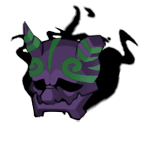
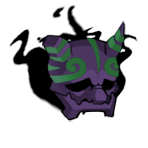
wine and ghoul block

diff --git a/js/animations/skills/GhoulBlock.js b/js/animations/skills/GhoulBlock.js
@@ -1,0 +1,90 @@
+import { Layer } from "../animations.js";
+
+const img = new Image();
+img.src = "img/display/effects/mask.png";
+
+export default class GhoulBlock {
+  constructor(left) {
+    this.layer = Layer.EFFECTS
+    this.left = left;
+    this.x = 300;
+    this.y = 470;
+    this.frame = 0;
+    this.opacity = 0;
+    this.scale = 0.6;
+  }
+
+  update() {
+    ++this.frame;
+    if (this.frame < 19) {
+    } else if (this.frame < 56) {
+      if (this.opacity < 1) {
+        this.opacity += 0.04;
+        if (this.opacity > 1) this.opacity = 1;
+      }
+      this.x += 1;
+      this.y -= 1;
+      if (this.frame > 45) {
+        this.scale += 0.02;
+        this.x -= 1;
+        this.y -= 1;
+      }
+    } else if (this.frame === 58 || this.frame === 59) {
+      this.scale += 0.03;
+      this.x -= 8;
+      this.y += 4;
+    } else if (this.frame === 60) {
+      this.x += 8;
+      this.y += 8;
+    } else if (this.frame < 63) {
+      this.scale -= 0.06;
+      this.opacity -= 0.3;
+      this.x += 50;
+      this.y += 5;
+    } else if (this.frame < 95) {
+    } else if (this.frame === 95) {
+      this.scale = 0.3;
+      this.x = 250;
+      this.y = 440;
+    } else if (this.frame < 110) {
+      this.scale += 0.03;
+      this.y -= 12;
+    }
+  }
+
+  /**
+   * notes @ 30 fps
+   * frames 1-18 wind up
+   * frames 19-56 mask fade in
+   * frames 57-62 scary
+   * frames 63-94 tricks and flips
+   * frames 95-116 mask from behind
+   */
+  draw(ctx) {
+    if (this.left) {
+      if (this.frame > 18 && this.frame < 63) {
+        ctx.globalAlpha = this.opacity;
+        ctx.drawImage(img, 0, 0, img.width, img.height, this.x, this.y, img.width * this.scale, img.height * this.scale);
+        ctx.globalAlpha = 1.0;
+      } else if (this.frame > 94) {
+        ctx.scale(-1, 1);
+        ctx.drawImage(img, 0, 0, img.width, img.height, this.x + ctx.canvas.width * -1, this.y, img.width * this.scale, img.height * this.scale);
+        ctx.scale(-1, 1);
+      }
+    } else {
+      if (this.frame > 18 && this.frame < 63) {
+        ctx.scale(-1, 1);
+        ctx.globalAlpha = this.opacity;
+        ctx.drawImage(img, 0, 0, img.width, img.height, this.x + ctx.canvas.width * -1, this.y, img.width * this.scale, img.height * this.scale);
+        ctx.globalAlpha = 1.0;
+        ctx.scale(-1, 1);
+      } else if (this.frame > 94) {
+        ctx.drawImage(img, 0, 0, img.width, img.height, this.x, this.y, img.width * this.scale, img.height * this.scale);
+      }
+    }
+  }
+
+  isFinished() {
+    return this.frame > 116;
+  }
+}

diff --git a/js/animations/skills/Wine.js b/js/animations/skills/Wine.js
@@ -1,0 +1,66 @@
+import { Layer } from "../animations.js";
+
+const img = new Image();
+img.src = "img/display/effects/winebottle.png";
+
+export default class Wine {
+  constructor(left, sprite) {
+    this.layer = Layer.EFFECTS
+    this.left = left;
+    this.sprite = sprite;
+    this.frame = 0;
+    this.offsetX = 40;
+    this.offsetY = -80;
+    this.angle = Math.PI / 4;
+  }
+
+  update() {
+    ++this.frame;
+    if (this.frame < 14) {
+      this.sprite.pos.x += 19;
+    } else if (this.frame < 19) {
+      this.sprite.pos.x += 5;
+    } else if (this.frame < 29) {
+      this.angle -= Math.PI / 12;
+    } else if (this.frame < 41) {
+    } else if (this.frame < 52) {
+    } else if (this.frame < 67) {
+      this.sprite.pos.x -= 17;
+    } else if (this.frame === 67) {
+      this.sprite.pos.x = 300;
+    }
+  }
+
+  /**
+   * notes @ 30 fps
+   * frames 1-13 run up
+   * frames 14-18 run up with bottle
+   * frames 19-40 drink
+   * frames 41-51 prep
+   * frames 52-67 spit (skipping to run back)
+   * frames 68-79 wait
+   * frames 80-96 run back
+   */
+  draw(ctx) {
+    if (this.frame > 13 && this.frame < 41) {
+      const x = this.sprite.pos.x + this.offsetX;
+      const y = this.sprite.pos.y + this.offsetY;
+      if (this.left) {
+        ctx.translate(x, y);
+        ctx.rotate(this.angle);
+        ctx.drawImage(img, 0, 0, img.width, img.height, 0, 0, img.width / 2, img.height / 2);
+        ctx.setTransform(1, 0, 0, 1, 0, 0);
+      } else {
+        ctx.translate(ctx.canvas.width - x, y);
+        ctx.scale(-1, 1);
+        ctx.rotate(this.angle);
+        ctx.drawImage(img, 0, 0, img.width, img.height, 0, 0, img.width / 2, img.height / 2);
+        ctx.setTransform(1, 0, 0, 1, 0, 0);
+      }
+    }
+  }
+
+  isFinished() {
+    return this.frame > 67;
+  }
+}

diff --git a/js/display.js b/js/display.js
@@ -22,7 +22,9 @@ const chains = getImage("img/display/effects/chains.png");
 const cloud = getImage("img/display/effects/aotg-cloud.png");
 const cursed = getImage("img/display/effects/cursed.png");
 const rooted = getImage("img/display/effects/rooted.png");
-const poisoned = getImage("img/display/effects/poisoned.png")
+const poisoned = getImage("img/display/effects/poisoned.png");
+const drunk = getImage("img/display/effects/drunk.png");
+const mask = getImage("img/display/effects/mask.png");
 
 export async function createProfile(player, options = { bg: 11, left: true }) {
   const canvas = document.createElement("canvas");
@@ -312,6 +314,10 @@ function renderStatusEffect(ctx, status, x, y, left = true) {
     ctx.drawImage(frenzy, 0, 0, frenzy.width, frenzy.height, x - frenzy.width * 0.9, y - frenzy.height * 2, frenzy.width * 2, frenzy.height * 2);
   } else if (status === Status.poisoned.name) {
     ctx.drawImage(poisoned, x - poisoned.width / 2, y - poisoned.height);
+  } else if (status === Status.wine.name) {
+    ctx.drawImage(drunk, x - drunk.width / 2, y - drunk.height);
+  } else if (status === Status.weakened.name) {
+    ctx.drawImage(mask, x - mask.width / 2, y - mask.height - 40);
   } else if (status === Status.silenced.name) {
     ctx.drawImage(chains, x - chains.width / 2, y - chains.height);
   } else if (status === Status.barbarism.name) {

diff --git a/js/components/Replay.js b/js/components/Replay.js
@@ -132,6 +132,19 @@ const parseNextLog = timeline => {
         callback: () => timeline.ongoingAnimations.push(new AnimationDefinitions.PoisonousFog(id % 2 === 0, sprite))
       });
       timeline.frame += 82;
+    } else if (name === Skills.wine.name) {
+      const sprite = id % 2 === 0 ? timeline.left[timeline.leftIndex].sprite : timeline.right[timeline.rightIndex].sprite;
+      timeline.events.push({
+        frame: timeline.frame,
+        callback: () => timeline.ongoingAnimations.push(new AnimationDefinitions.Wine(id % 2 === 0, sprite))
+      });
+      timeline.frame += 67;
+    } else if (name === Skills.ghoulBlock.name) {
+      timeline.events.push({
+        frame: timeline.frame,
+        callback: () => timeline.ongoingAnimations.push(new AnimationDefinitions.GhoulBlock(id % 2 === 0))
+      });
+      timeline.frame += 116;
     } else if (name === Skills.earthStyleWall.name) {
       timeline.events.push({
         frame: timeline.frame,

diff --git a/js/animations/animations.js b/js/animations/animations.js
@@ -12,6 +12,7 @@ import DrawPower from "./skills/DrawPower.js";
 import EarthStyleWall from "./skills/EarthStyleWall.js";
 import ExplosiveBlow from "./skills/ExplosiveBlow.js";
 import FireShield from "./skills/FireShield.js";
+import GhoulBlock from "./skills/GhoulBlock.js";
 import GoldenShield from "./skills/GoldenShield.js";
 import HeavyHammer from "./skills/HeavyHammer.js";
 import InescapableNet from "./skills/InescapableNet.js";
@@ -22,6 +23,7 @@ import Rebirth from "./skills/Rebirth.js";
 import Rejuvenation from "./skills/Rejuvenation.js";
 import ThornShield from "./skills/ThornShield.js";
 import ThunderboltBoxing from "./skills/ThunderboltBoxing.js";
+import Wine from "./skills/Wine.js";
 
 export const Layer = {
   BACKGROUND: 0, // bg, totems
@@ -49,6 +51,8 @@ const AnimationDefinitions = {
   Counterattack,
   Bomb,
   PoisonousFog,
+  Wine,
+  GhoulBlock,
   Barbarism,
   Assassinate,
   MovingIllusion,
